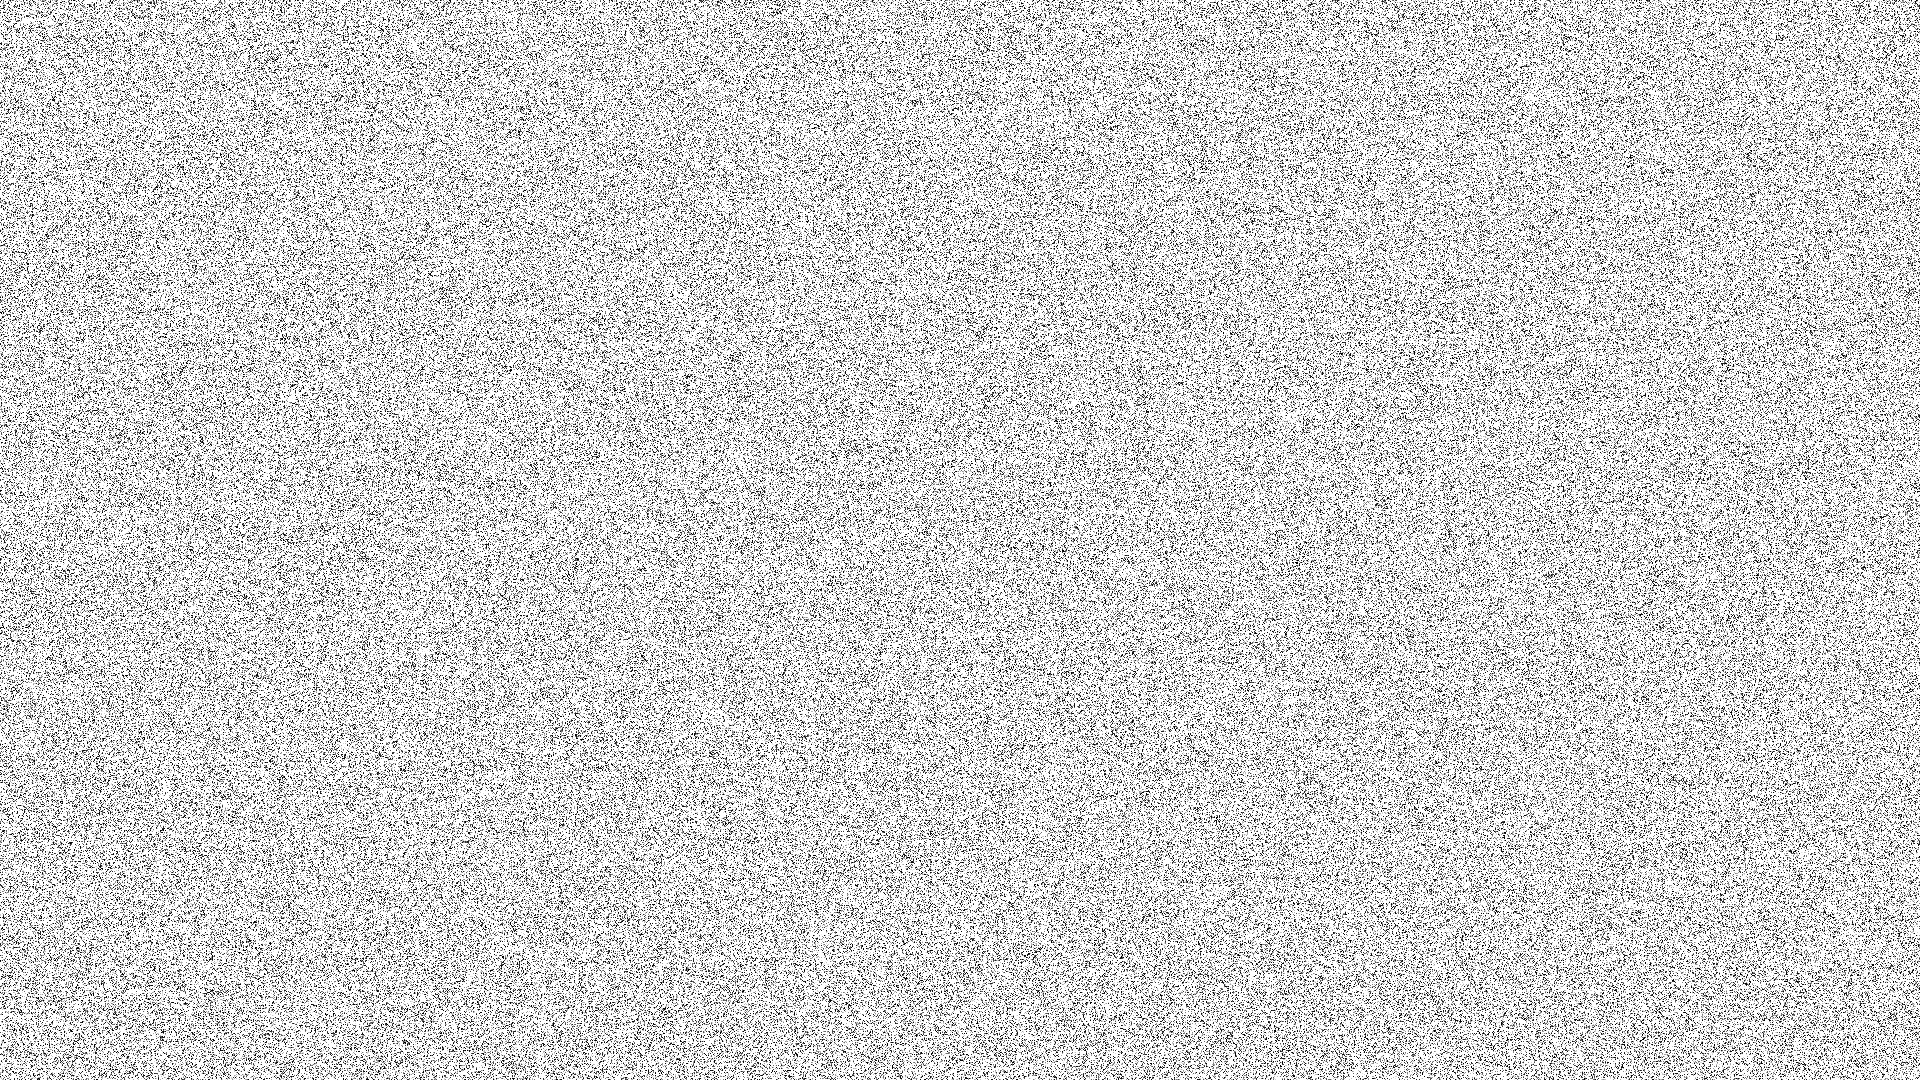
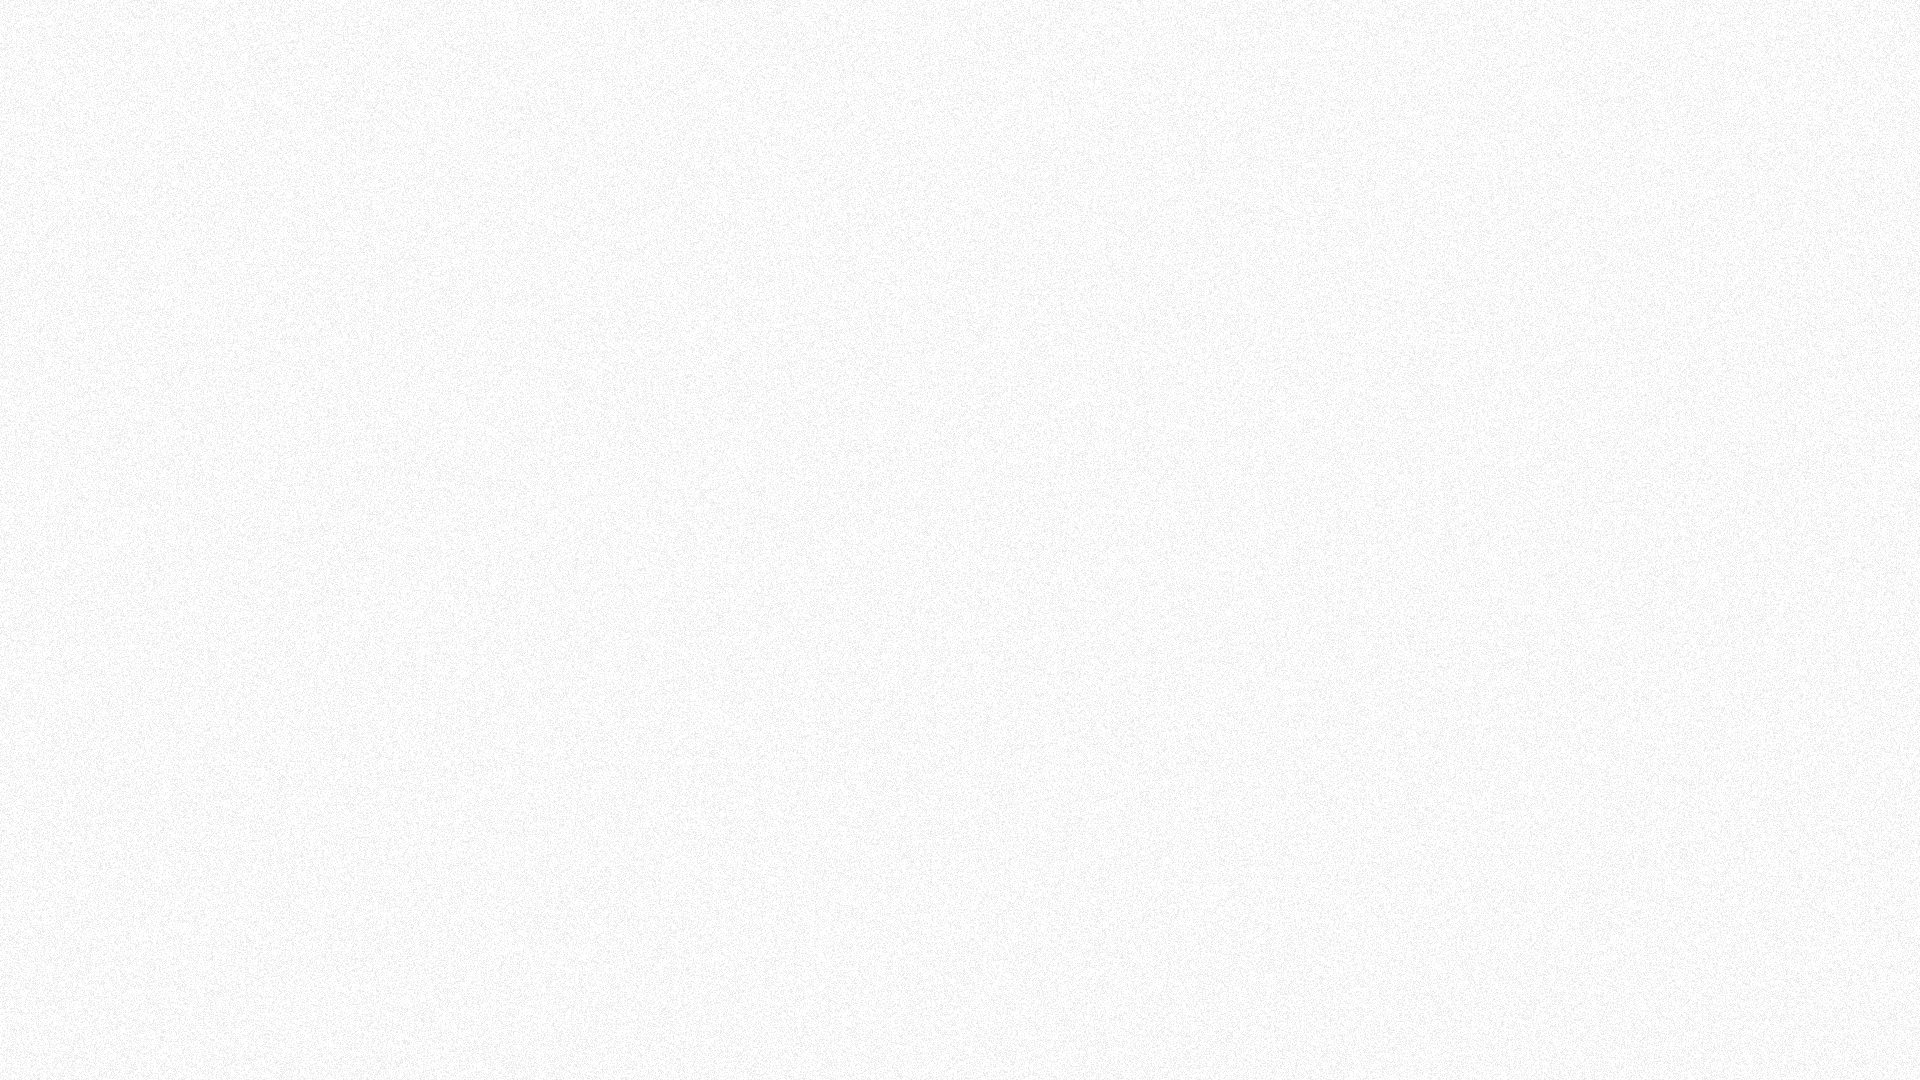
overlay is working now

diff --git a/lib/pages/home_screen.dart b/lib/pages/home_screen.dart
@@ -1,9 +1,10 @@
+import 'dart:io';
+
 import 'package:anime_tint/controller/settings_provider.dart';
 import 'package:flutter/material.dart';
 import 'package:flutter_overlay_window/flutter_overlay_window.dart';
 import 'package:permission_handler/permission_handler.dart';
 import 'package:provider/provider.dart';
-import 'package:restart_app/restart_app.dart';
 
 class HomeScreen extends StatefulWidget {
   const HomeScreen({super.key});
@@ -42,11 +43,12 @@ class _HomeScreenState extends State<HomeScreen> {
   Future<void> _toggleOverlay(bool isEnabled) async {
     if (isEnabled) {
       FlutterOverlayWindow.showOverlay(
+        height: 3000,
+        width: WindowSize.fullCover,
         flag: OverlayFlag.clickThrough,
         overlayTitle: "AnimeTint",
         overlayContent: "Overlay Running...",
         enableDrag: false,
-        positionGravity: PositionGravity.auto,
         visibility: NotificationVisibility.visibilityPublic,
         alignment: OverlayAlignment.bottomCenter,
       );
@@ -55,8 +57,9 @@ class _HomeScreenState extends State<HomeScreen> {
     }
   }
 
-  void _restartApp() {
-    Restart.restartApp();
+  void _restartApp(SettingsProvider settingsProvider) {
+    settingsProvider.useOverlay = false;
+    exit(0);
   }
 
   @override
@@ -94,10 +97,10 @@ class _HomeScreenState extends State<HomeScreen> {
                 Padding(
                   padding: const EdgeInsets.only(top: 20),
                   child: ElevatedButton(
-                    onPressed: _restartApp,
+                    onPressed: () {
+                      _restartApp(settingsProvider);
+                    },
                     style: ElevatedButton.styleFrom(
-                      backgroundColor: Theme.of(context).colorScheme.primary,
-                      foregroundColor: Colors.white,
                       padding: const EdgeInsets.symmetric(vertical: 14),
                       shape: RoundedRectangleBorder(
                         borderRadius: BorderRadius.circular(12),
@@ -161,7 +164,7 @@ class _HomeScreenState extends State<HomeScreen> {
           value: settingsProvider.tintIntensity,
           min: 0.0,
           max: 1.0,
-          divisions: 10,
+          divisions: 100,
           label: "${(settingsProvider.tintIntensity * 100).toInt()}%",
           onChanged: (value) {
             settingsProvider.tintIntensity = value;
@@ -184,7 +187,7 @@ class _HomeScreenState extends State<HomeScreen> {
           value: settingsProvider.noiseIntensity,
           min: 0.0,
           max: 1.0,
-          divisions: 10,
+          divisions: 100,
           label: "${(settingsProvider.noiseIntensity * 100).toInt()}%",
           onChanged: (value) {
             settingsProvider.noiseIntensity = value;

diff --git a/lib/components/overlay.dart b/lib/components/overlay.dart
@@ -1,6 +1,7 @@
 import 'dart:developer';
 import 'package:anime_tint/controller/settings_provider.dart';
 import 'package:flutter/material.dart';
+import 'package:flutter/services.dart';
 import 'package:provider/provider.dart';
 
 class OverlayScreen extends StatelessWidget {
@@ -11,6 +12,7 @@ class OverlayScreen extends StatelessWidget {
     log("✅ Overlay UI Loaded");
 
     final settingsProvider = Provider.of<SettingsProvider>(context);
+    SystemChrome.setEnabledSystemUIMode(SystemUiMode.immersiveSticky);
 
     return Scaffold(
       backgroundColor: Colors.transparent,
@@ -19,6 +21,8 @@ class OverlayScreen extends StatelessWidget {
           // Full-screen Tint Layer
           Positioned.fill(
             child: Container(
+              height: double.infinity,
+              width: double.infinity,
               color: settingsProvider.tintColor.withValues(
                 alpha: settingsProvider.tintIntensity,
               ),
@@ -29,7 +33,12 @@ class OverlayScreen extends StatelessWidget {
           Positioned.fill(
             child: Opacity(
               opacity: settingsProvider.noiseIntensity,
-              child: Image.asset("assets/noise.png", fit: BoxFit.cover),
+              child: Image.asset(
+                "assets/noise.png",
+                fit: BoxFit.cover,
+                height: double.infinity,
+                width: double.infinity,
+              ),
             ),
           ),
         ],
